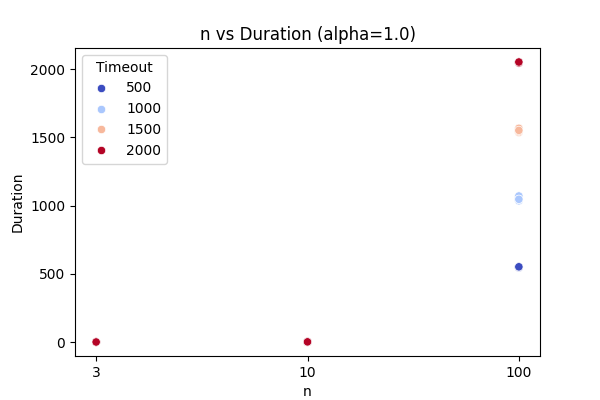
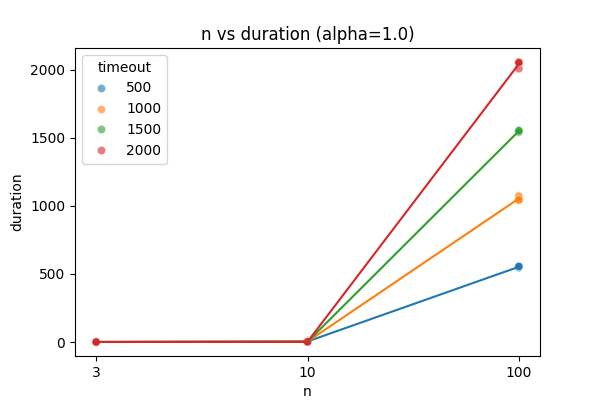
Plots

diff --git a/AkkaSynod/plot.py b/AkkaSynod/plot.py
@@ -3,53 +3,31 @@ import seaborn as sns
 import matplotlib.pyplot as plt
 import os
 
-def plot_and_save(csv_file, output_dir="plots"):
-    # Read the CSV file
-    df = pd.read_csv(csv_file)
-    
-    # Create output directory if it doesn't exist
-    os.makedirs(output_dir, exist_ok=True)
-    
-    unique_alpha = df['alpha'].unique()
-    unique_n = df['n'].unique()
-    unique_timeout = df['timeout'].unique()
-    
-    # Plot n vs duration for each alpha, coloring by timeout
-    for alpha_val in unique_alpha:
-        filtered_df = df[df['alpha'] == alpha_val]
+def plot_parameter_vs_duration(df, x_param, fixed_param, color_param, y_param, output_dir):
+    unique_fixed_values = df[fixed_param].unique()
+    for fixed_val in unique_fixed_values:
+        filtered_df = df[df[fixed_param] == fixed_val]
+        avg_df = filtered_df.groupby([x_param, color_param], as_index=False)[y_param].mean()
+        
         plt.figure(figsize=(6, 4))
-        sns.scatterplot(x=filtered_df['n'].astype(str), y='duration', hue='timeout', palette='coolwarm', data=filtered_df)
-        plt.title(f'n vs Duration (alpha={alpha_val})')
-        plt.xlabel('n')
-        plt.ylabel('Duration')
-        plt.legend(title='Timeout')
-        plt.savefig(f"{output_dir}/n_vs_duration_alpha_{alpha_val}.png")
-        plt.close()
-    
-    # Plot alpha vs duration for each n, coloring by timeout
-    for n_val in unique_n:
-        filtered_df = df[df['n'] == n_val]
-        plt.figure(figsize=(6, 4))
-        sns.scatterplot(x='alpha', y='duration', hue='timeout', palette='coolwarm', data=filtered_df)
-        plt.title(f'Alpha vs Duration (n={n_val})')
-        plt.xlabel('Alpha')
-        plt.ylabel('Duration')
-        plt.legend(title='Timeout')
-        plt.savefig(f"{output_dir}/alpha_vs_duration_n_{n_val}.png")
-        plt.close()
-    
-    # Plot timeout vs duration for each n, coloring by alpha
-    for n_val in unique_n:
-        filtered_df = df[df['n'] == n_val]
-        plt.figure(figsize=(6, 4))
-        sns.scatterplot(x='timeout', y='duration', hue='alpha', palette='coolwarm', data=filtered_df)
-        plt.title(f'Timeout vs Duration (n={n_val})')
-        plt.xlabel('Timeout')
-        plt.ylabel('Duration')
-        plt.legend(title='Alpha')
-        plt.savefig(f"{output_dir}/timeout_vs_duration_n_{n_val}.png")
+        sns.scatterplot(x=filtered_df[x_param].astype(str), y=y_param, hue=color_param, palette='tab10', data=filtered_df, alpha=0.6)
+        sns.lineplot(x=avg_df[x_param].astype(str), y=y_param, hue=avg_df[color_param], palette='tab10', data=avg_df, legend=False)
+        plt.title(f'{x_param} vs {y_param} ({fixed_param}={fixed_val})')
+        plt.xlabel(x_param)
+        plt.ylabel(y_param)
+        plt.legend(title=color_param)
+        plt.savefig(f"{output_dir}/{x_param}_vs_{y_param}_{fixed_param}_{fixed_val}.png")
         plt.close()
 
-# Example usage
-csv_file = 'data.csv'  # Change to your actual CSV file name
-plot_and_save(csv_file)
+def plot_and_save(csv_file, output_dir):
+    df = pd.read_csv(csv_file)
+    os.makedirs(output_dir, exist_ok=True)
+    
+    plot_parameter_vs_duration(df, 'n', 'alpha', 'timeout', 'duration', output_dir)
+    plot_parameter_vs_duration(df, 'alpha', 'n', 'timeout', 'duration', output_dir)
+    plot_parameter_vs_duration(df, 'n', 'timeout', 'alpha', 'duration', output_dir)
+    plot_parameter_vs_duration(df, 'timeout', 'n', 'alpha', 'duration', output_dir)
+    plot_parameter_vs_duration(df, 'timeout', 'alpha', 'n', 'duration', output_dir)
+    plot_parameter_vs_duration(df, 'alpha', 'timeout', 'n', 'duration', output_dir)
+
+plot_and_save('data.csv', 'plots')

diff --git a/AkkaSynod/src/main/java/demo/AkkaSynod.java b/AkkaSynod/src/main/java/demo/AkkaSynod.java
@@ -38,6 +38,7 @@ public class AkkaSynod {
     	
     	try (PrintWriter file = new PrintWriter(new FileWriter("data.csv"))) {
     		file.println("n,alpha,timeout,duration");
+    		run(3, 0, 500); // test run
 	    	for(int n : N) {
 	    		for(double alpha : ALPHA) {
 	    			for(int timeout : TIMEOUT) {
